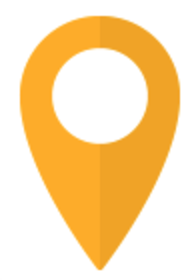
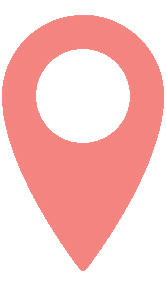
Add Map test markers

diff --git a/test/mapa.html b/test/mapa.html
@@ -4025,6 +4025,10 @@
             border-right-color: #fff;
         }
 
+        html, body {
+            height: 100%;
+        }
+
     </style>
     <script src="https://ajax.googleapis.com/ajax/libs/jquery/3.2.1/jquery.min.js"></script>
 
@@ -4038,6 +4042,10 @@
 
     function initmap() {
         // set up the map
+        console.log(screen.width)
+        console.log(screen.height)
+
+        //jQuery('#tst').html('<div id="map" style="width:'+screen.width+'px; height: '+screen.height+'px;"></div>');
         map = new L.Map('map');
 
         // create the tile layer with correct attribution
@@ -4046,8 +4054,9 @@
         var osm = new L.TileLayer(osmUrl, {minZoom: 12, maxZoom: 18, attribution: osmAttrib});
 
         // start the map in South-East England
-        map.setView(new L.LatLng(41.3944364, 2.1672282), 13);
+        map.setView(new L.LatLng(41.3807852, 2.1478704), 20);
         map.addLayer(osm);
+
     }
 
     function addMarker(item) {
@@ -4067,16 +4076,16 @@
         html = item.name + "<hr>";
         html += item.description;
         /*
-        var html = "<table>";
+         var html = "<table>";
 
-        html += "<tr>";
-        html += "<td> Name: </td>
-
-
-        html += "</tr>";
+         html += "<tr>";
+         html += "<td> Name: </td>
 
 
-        html += "</table>";*/
+         html += "</tr>";
+
+
+         html += "</table>";*/
         L.marker([item.lat, item.lon], {icon: icon}).addTo(map)
             .bindPopup(html)
     }
@@ -4084,29 +4093,29 @@
     var greenIcon = L.icon({
         iconUrl: '/images/green.png',
 
-        iconSize: [38, 95], // size of the icon
-        iconAnchor: [22, 94], // point of the icon which will correspond to marker's location
-        popupAnchor: [-3, -76] // point from which the popup should open relative to the iconAnchor
+        iconSize: [40, 100], // size of the icon
+        iconAnchor: [20, 90], // point of the icon which will correspond to marker's location
+        popupAnchor: [0, -100] // point from which the popup should open relative to the iconAnchor
     });
     var redIcon = L.icon({
         iconUrl: '/images/red.png',
 
-        iconSize: [38, 95], // size of the icon
-        iconAnchor: [22, 94], // point of the icon which will correspond to marker's location
-        popupAnchor: [-3, -76] // point from which the popup should open relative to the iconAnchor
 
+        iconSize: [40, 100], // size of the icon
+        iconAnchor: [20, 90], // point of the icon which will correspond to marker's location
+        popupAnchor: [0, -100] // point from which the popup should open relative to the iconAnchor
     })
 
     var yellowIcon = L.icon({
         iconUrl: '/images/yellow.png',
 
-        iconSize: [38, 95], // size of the icon
-        iconAnchor: [22, 94], // point of the icon which will correspond to marker's location
-        popupAnchor: [-3, -76] // point from which the popup should open relative to the iconAnchor
-
+        iconSize: [40, 100], // size of the icon
+        iconAnchor: [20, 90], // point of the icon which will correspond to marker's location
+        popupAnchor: [0, -100] // point from which the popup should open relative to the iconAnchor
     })
 </script>
-<div id="map" style="width:500px; height: 500px;">asdf</div>
+<div id="map" style="width:100%; height: 99%"></div>
+
 <script>
     initmap();
     $.ajax({
@@ -4115,12 +4124,11 @@
     }).done(function (response) {
         var json = JSON.parse(response);
 
-        json.forEach(function(item){
+        json.forEach(function (item) {
 
             addMarker(item);
             console.log(item);
         });
-        debugger
     });</script>
 </body>
 </html>
